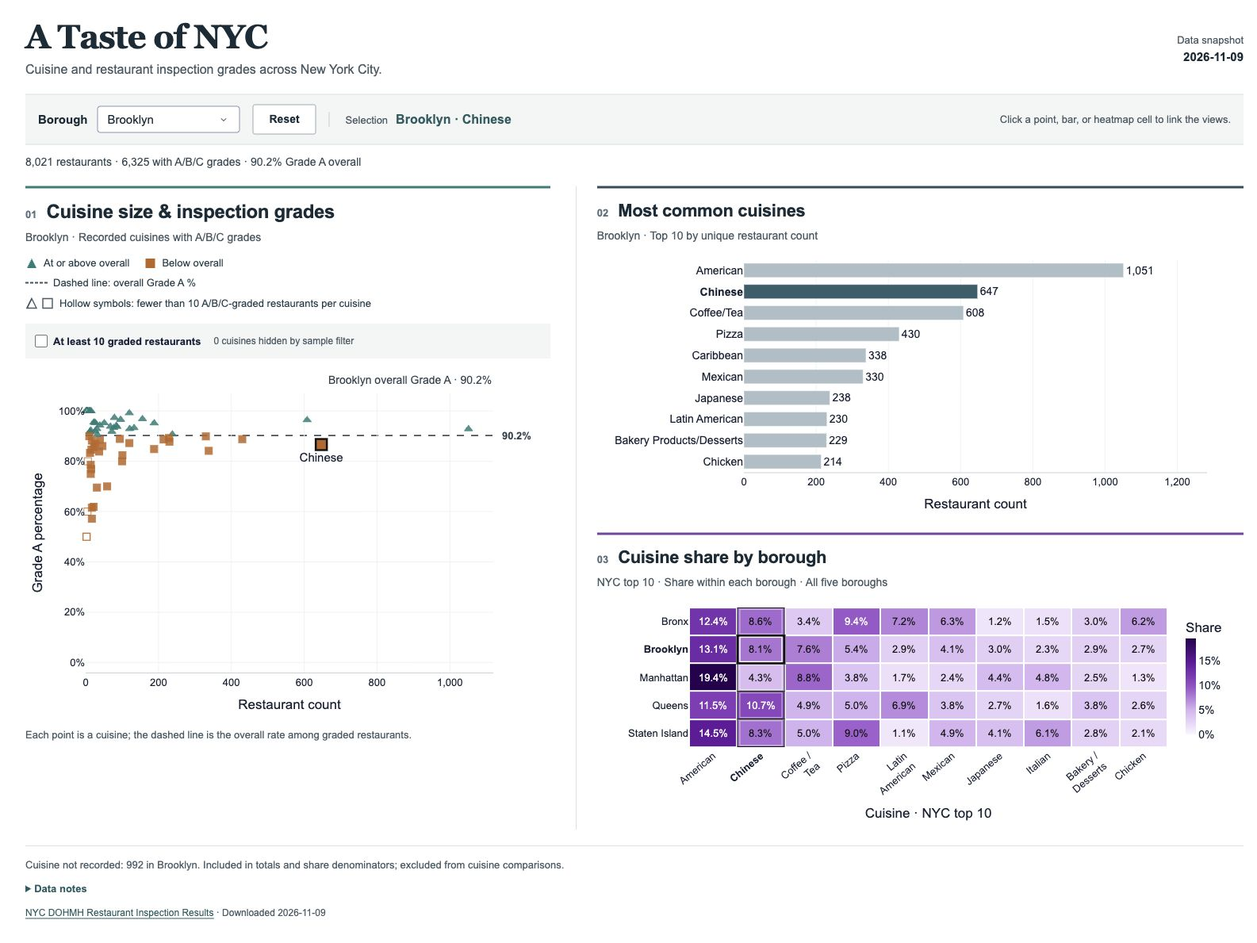
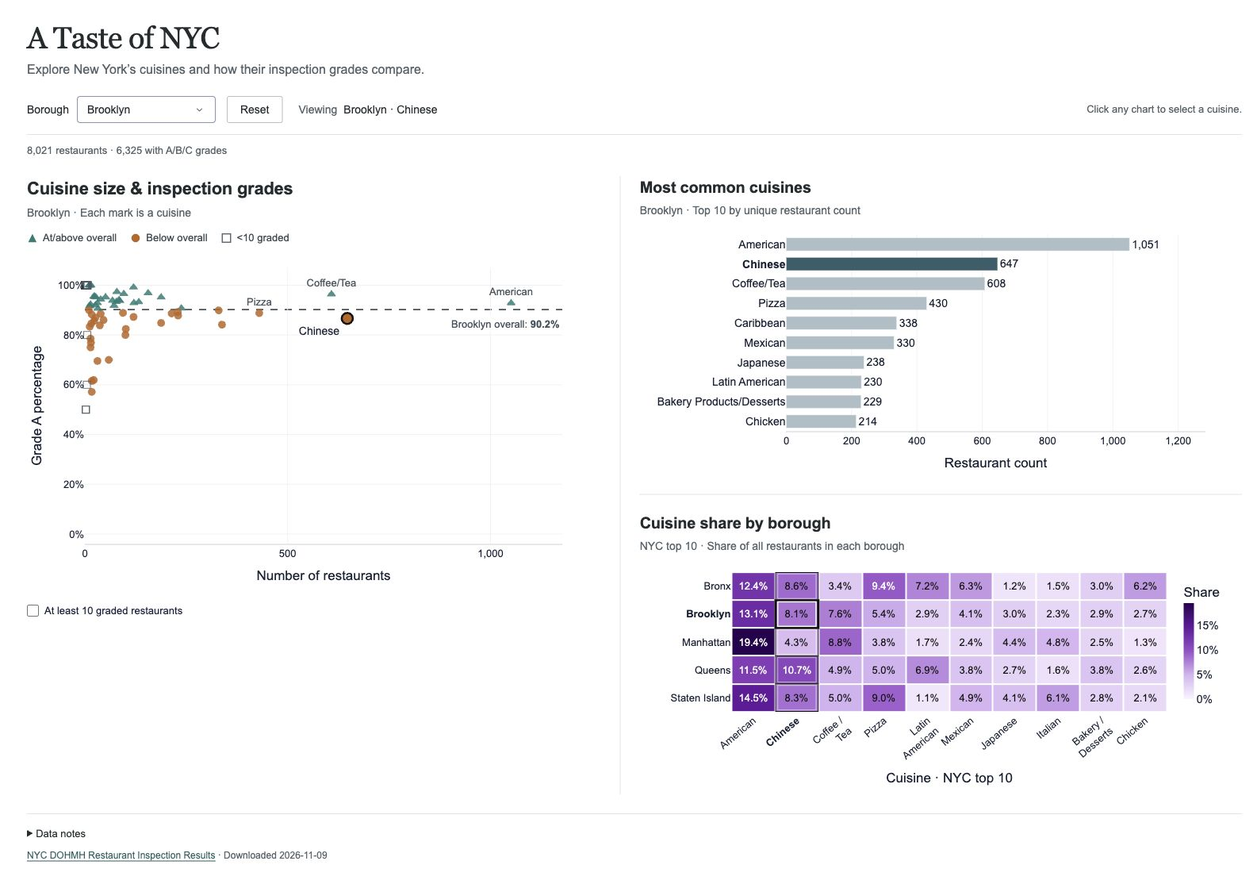
Refine dashboard typography and direct chart labels

diff --git a/a-taste-of-nyc/assets/style.css b/a-taste-of-nyc/assets/style.css
@@ -1,51 +1,41 @@
-:root { color-scheme: light; --ink: #182b36; --muted: #4b5c66; --line: #d9e0e3; --accent: #255c60; }
+:root { color-scheme: light; --ink: #252b2e; --muted: #58636a; --line: #e0e4e5; --accent: #285f60; }
 * { box-sizing: border-box; }
 body { margin: 0; background: #fff; color: var(--ink); font-family: Arial, Helvetica, sans-serif; }
-.page { max-width: 1840px; margin: auto; padding: 24px 32px 20px; }
-header { display: flex; align-items: center; justify-content: space-between; gap: 20px; margin-bottom: 20px; }
-h1 { font-family: Georgia, serif; font-size: 42px; font-weight: 600; letter-spacing: -1px; margin: 0 0 6px; line-height: 1.08; }
+.page { max-width: 1740px; margin: auto; padding: 26px 34px 20px; }
+header { margin-bottom: 22px; }
+h1 { font-family: Georgia, serif; font-size: 38px; font-weight: 500; letter-spacing: -.8px; margin: 0 0 7px; line-height: 1.12; }
 .intro { color: var(--muted); font-size: 16px; margin: 0; line-height: 1.45; }
-.snapshot { display: flex; flex-direction: column; gap: 5px; font-size: 13px; color: var(--muted); text-align: right; }
-.snapshot strong { color: var(--ink); font-size: 15px; font-weight: 600; }
-.controls { display: flex; align-items: center; flex-wrap: wrap; gap: 16px; border-block: 1px solid var(--line); padding: 12px 16px; background: #f3f6f6; }
-.filter { display: flex; align-items: center; gap: 12px; font-size: 15px; font-weight: 600; }
-#borough { width: 180px; font-size: 15px; font-weight: 400; }
-button { background: #fff; color: var(--ink); border: 1px solid #9aaab2; border-radius: 3px; padding: 10px 20px; font-size: 14px; font-weight: 600; cursor: pointer; }
-button:hover { background: #e8efef; }
+.controls { display: flex; align-items: center; flex-wrap: wrap; gap: 14px; border-bottom: 1px solid var(--line); padding: 0 0 14px; }
+.filter { display: flex; align-items: center; gap: 10px; font-size: 14px; }
+#borough { width: 175px; font-size: 14px; }
+button { background: #fff; color: var(--ink); border: 1px solid #b7c0c4; border-radius: 3px; padding: 8px 16px; font-size: 14px; font-weight: 400; cursor: pointer; }
+button:hover { background: #f3f5f5; }
 button:focus-visible, a:focus-visible, summary:focus-visible { outline: 2px solid var(--accent); outline-offset: 3px; }
-.selection { display: flex; align-items: baseline; gap: 10px; border-left: 1px solid #c4ced2; padding-left: 20px; font-size: 16px; }
-.selection-label { color: var(--muted); font-size: 13px; }
-.selection strong { color: var(--accent); }
+.selection { display: flex; align-items: baseline; gap: 8px; margin-left: 6px; font-size: 14px; }
+.selection-label { color: var(--muted); }
+.selection strong { color: var(--ink); font-weight: 500; }
 .hint { margin: 0 0 0 auto; font-size: 13px; color: var(--muted); }
-.metrics { padding: 14px 0 22px; font-size: 14px; font-weight: 500; color: #344852; }
-.chart-grid { display: grid; grid-template-columns: minmax(0, .88fr) minmax(0, 1.12fr); gap: 32px; align-items: start; }
-.right-column { display: grid; gap: 22px; min-width: 0; border-left: 1px solid var(--line); padding-left: 26px; }
-.panel { background: white; padding: 14px 0 0; min-width: 0; border-top: 3px solid #314d5a; }
-.scatter-panel { border-top-color: #237d75; }
-.right-column .panel + .panel { border-top-color: #7843a2; }
-.chart-title { display: flex; align-items: baseline; gap: 12px; }
-.rq { color: #5c707d; font-size: 13px; font-weight: 700; flex-shrink: 0; }
-h2 { margin: 0; font-size: 22px; line-height: 1.25; font-weight: 700; letter-spacing: -.35px; }
-.scatter-panel h2 { font-size: 24px; }
-.chart-subtitle { font-size: 14px; color: var(--muted); font-weight: 500; margin: 8px 0 12px; line-height: 1.45; }
-.plot-key { display: flex; flex-wrap: wrap; gap: 9px 18px; margin: 14px 0 0; font-size: 13px; color: #263e49; }
-.plot-key span { display: inline-flex; align-items: center; gap: 7px; }
-.key-mark { display: inline-block; width: 16px; height: 16px; flex-shrink: 0; }
-.plot-key .key-reference, .plot-key .key-note { flex-basis: 100%; }
-.plot-key .key-note { align-items: flex-start; line-height: 1.45; }
-.plot-key .key-symbols { flex-shrink: 0; gap: 4px; padding-top: 1px; }
-.key-line { display: inline-block; width: 28px; border-top: 2px dashed #45515c; flex-shrink: 0; }
-.sample-controls { display: flex; flex-wrap: wrap; align-items: center; gap: 7px 16px; margin: 16px 0 8px; padding: 10px 12px; background: #f3f6f6; font-size: 13px; color: #263e49; }
-.sample-controls label { display: inline-flex; align-items: center; gap: 7px; font-weight: 600; cursor: pointer; }
-.sample-controls input { accent-color: var(--accent); width: 16px; height: 16px; margin: 0; }
+.metrics { padding: 12px 0 25px; font-size: 13px; color: var(--muted); }
+.chart-grid { display: grid; grid-template-columns: minmax(0, .95fr) minmax(0, 1.05fr); gap: 38px; align-items: start; }
+.right-column { display: grid; gap: 25px; min-width: 0; padding-left: 24px; border-left: 1px solid var(--line); }
+.panel { background: white; min-width: 0; }
+.right-column .panel + .panel { border-top: 1px solid var(--line); padding-top: 22px; }
+h2 { margin: 0; font-size: 20px; line-height: 1.3; font-weight: 600; letter-spacing: -.25px; }
+.scatter-panel h2 { font-size: 22px; }
+.chart-subtitle { font-size: 14px; color: var(--muted); font-weight: 400; margin: 7px 0 12px; line-height: 1.45; }
+.plot-key { display: flex; flex-wrap: wrap; gap: 9px 17px; margin: 14px 0 8px; font-size: 13px; color: #414a50; }
+.plot-key span { display: inline-flex; align-items: center; gap: 6px; }
+.key-mark { display: inline-block; width: 14px; height: 14px; flex-shrink: 0; }
+.sample-controls { display: flex; flex-wrap: wrap; align-items: center; gap: 6px 16px; margin-top: 12px; font-size: 13px; color: #414a50; }
+.sample-controls label { display: inline-flex; align-items: center; gap: 7px; font-weight: 400; cursor: pointer; }
+.sample-controls input { accent-color: var(--accent); width: 15px; height: 15px; margin: 0; }
 #sample-status { color: var(--muted); font-size: 12px; }
-.figure-note { font-size: 13px; color: var(--muted); line-height: 1.55; margin: 6px 0 0; max-width: 560px; }
-.missing-note { border-top: 1px solid var(--line); margin: 20px 0 0; padding-top: 14px; color: var(--muted); font-size: 13px; line-height: 1.5; }
-.data-notes { margin-top: 10px; font-size: 13px; color: var(--muted); line-height: 1.6; max-width: 1100px; }
-.data-notes summary { cursor: pointer; color: var(--accent); font-weight: 600; width: fit-content; }
-.data-notes p { margin: 8px 0; }
-footer { margin-top: 12px; color: var(--muted); font-size: 12px; }
+#sample-status:empty { display: none; }
+.data-notes { border-top: 1px solid var(--line); padding-top: 14px; margin-top: 24px; font-size: 13px; color: var(--muted); line-height: 1.6; }
+.data-notes summary { cursor: pointer; color: var(--ink); width: fit-content; }
+.data-notes p { margin: 8px 0; max-width: 1050px; }
+footer { margin-top: 10px; color: var(--muted); font-size: 12px; }
 a { color: var(--accent); text-underline-offset: 3px; }
-@media (max-width: 1400px) { .page { padding: 22px; } .hint { display: none; } .chart-grid { gap: 24px; } .right-column { padding-left: 20px; } .heatmap-plot { min-width: 700px; } .panel:has(.heatmap-plot) { overflow-x: auto; } }
-@media (max-width: 1150px) { .chart-grid { grid-template-columns: 1fr; } .right-column { border-left: 0; padding-left: 0; gap: 26px; } .scatter-plot { height: 440px !important; } .scatter-panel { padding-bottom: 12px; } .heatmap-plot { min-width: 740px; } }
-@media (max-width: 550px) { .page { padding: 18px 14px; } h1 { font-size: 36px; } .intro { font-size: 15px; } .snapshot { display: none; } header { margin-bottom: 16px; } .controls { padding: 12px; gap: 12px; } .selection { padding: 8px 0 0; border-left: 0; border-top: 1px solid var(--line); width: 100%; flex-wrap: wrap; } .filter { gap: 8px; } #borough { width: 145px; } button { padding: 9px 13px; } .metrics { line-height: 1.6; } h2, .scatter-panel h2 { font-size: 21px; } .panel:has(.heatmap-plot) .chart-subtitle::after { content: "Scroll horizontally to compare all cuisines →"; display: block; margin-top: 6px; color: var(--accent); font-weight: 600; } }
+@media (max-width: 1400px) { .page { padding: 24px; } .hint { display: none; } .chart-grid { gap: 26px; } .right-column { padding-left: 20px; } .heatmap-plot { min-width: 700px; } .panel:has(.heatmap-plot) { overflow-x: auto; } }
+@media (max-width: 1150px) { .chart-grid { grid-template-columns: 1fr; gap: 30px; } .right-column { border-left: 0; padding-left: 0; gap: 26px; } .scatter-plot { height: 420px !important; } .heatmap-plot { min-width: 740px; } }
+@media (max-width: 550px) { .page { padding: 20px 14px; } h1 { font-size: 34px; } .intro { font-size: 15px; } header { margin-bottom: 18px; } .controls { gap: 10px; } .selection { margin-left: 0; width: 100%; flex-wrap: wrap; } #borough { width: 145px; } button { padding: 9px 13px; } h2, .scatter-panel h2 { font-size: 20px; } .panel:has(.heatmap-plot) .chart-subtitle::after { content: "Scroll horizontally to compare all cuisines →"; display: block; margin-top: 6px; color: var(--accent); } }

diff --git a/a-taste-of-nyc/app.py b/a-taste-of-nyc/app.py
@@ -64,6 +64,51 @@ def empty_figure(message):
     return fig
 
 
+def scatter_labels(plotted, selected, benchmark):
+    """Label the selection and up to three large cuisines, leaving crowded marks alone.
+
+    Approximate text boxes on a conservative 320px-wide plot so labels remain
+    sparse on laptops. These are presentation decisions, not data exclusions.
+    """
+    width, height = 320, 340
+    x_max = float(plotted.restaurants.max()) * 1.12
+    candidates = pd.concat([plotted[plotted.cuisine.eq(selected)],
+                            plotted[plotted.cuisine.ne(selected) & (plotted.rated >= 10)].head(3)])
+    # Reserve the area occupied by the benchmark label, directly below its line.
+    line_y = (1.07 - benchmark) / 1.11 * height
+    occupied = [(width - 180, line_y + 7, width, line_y + 26)]
+    marks = [(float(r.restaurants) / x_max * width, (1.07 - float(r.grade_a_pct)) / 1.11 * height)
+             for r in plotted.itertuples()]
+    labels = {}
+    for row in candidates.itertuples():
+        x, y = float(row.restaurants) / x_max * width, (1.07 - float(row.grade_a_pct)) / 1.11 * height
+        label_width, label_height = len(row.cuisine) * 6.8, 16
+        positions = {
+            "top center": (x-label_width/2, y-12-label_height),
+            "bottom center": (x-label_width/2, y+12),
+            "middle right": (x+12, y-label_height/2),
+            "middle left": (x-12-label_width, y-label_height/2),
+        }
+        for position, (left, top) in positions.items():
+            box = (left, top, left+label_width, top+label_height)
+            if left < 0 or box[2] > width or top < 0 or box[3] > height:
+                continue
+            if any(left < r+4 and box[2] > l-4 and top < b+4 and box[3] > t-4 for l,t,r,b in occupied):
+                continue
+            if any(left-4 < px < box[2]+4 and top-4 < py < box[3]+4 for px,py in marks):
+                continue
+            labels[row.cuisine] = position
+            occupied.append(box)
+            break
+        else:
+            if row.cuisine == selected:
+                # A selected cuisine must remain identified, even in a dense cluster.
+                labels[row.cuisine] = "bottom right" if x < width/2 else "bottom left"
+                left = x+12 if x < width/2 else x-12-label_width
+                occupied.append((left, y+12, left+label_width, y+12+label_height))
+    return labels
+
+
 def scatter_figure(summary, selected, scope="All NYC", min_graded=1):
     # The benchmark is a pooled restaurant-level rate, not a mean of cuisine rates.
     total_rated = int(summary.rated.sum())
@@ -72,6 +117,7 @@ def scatter_figure(summary, selected, scope="All NYC", min_graded=1):
     if plotted.empty:
         return empty_figure("No recorded cuisines meet the graded-sample filter" if min_graded > 1 else "No recorded cuisines with A/B/C grades in this selection")
     fig = base_figure()
+    labels = scatter_labels(plotted, selected, benchmark)
     groups = [(plotted[plotted.cuisine.ne(selected)], False), (plotted[plotted.cuisine.eq(selected)], True)]
     for rows, active in groups:
         if rows.empty:
@@ -86,9 +132,10 @@ def scatter_figure(summary, selected, scope="All NYC", min_graded=1):
                   zip(rows.cuisine, rows.restaurants, rows.rated, rows.grade_a, relation)]
         fig.add_trace(go.Scatter(
             x=rows.restaurants.tolist(), y=rows.grade_a_pct.tolist(),
-            mode="markers+text" if active else "markers",
-            text=[escape(c) for c in rows.cuisine] if active else None,
-            textposition="bottom center", textfont={"color": INK, "size": 15}, cliponaxis=False,
+            mode="markers+text",
+            text=[escape(c) if c in labels else "" for c in rows.cuisine],
+            textposition=[labels.get(c, "top center") for c in rows.cuisine],
+            textfont={"color": INK if active else "#4a555c", "size": 14 if active else 13}, cliponaxis=False,
             customdata=custom,
             marker={"size": 14 if active else 9, "color": colors,
                     "opacity": 1 if active else 0.85,
@@ -102,16 +149,15 @@ def scatter_figure(summary, selected, scope="All NYC", min_graded=1):
                                     hovertemplate="<b>%{customdata[0]}</b><br>Borough: %{customdata[5]}<br>Restaurants: %{customdata[1]:,}<br>Rated (A/B/C): %{customdata[2]:,}<br>Grade A restaurants: %{customdata[3]:,}<br>Grade A: %{y:.1%}<extra></extra>", marker={"size": 17,
                                     "symbol": symbols, "color": "#111111", "line": {"width": 1.5}}))
     fig.add_hline(y=benchmark, line={"color": "#45515c", "width": 1.8, "dash": "dash"}, layer="below")
-    # Keep the benchmark label outside the data region so it cannot cover a point.
-    fig.add_annotation(x=1, xref="paper", y=1.02, yref="paper", text=f"{escape(scope)} overall Grade A · {benchmark:.1%}",
-                       showarrow=False, xanchor="right", yanchor="bottom",
-                       font={"size": 14, "color": "#33414c"})
-    fig.add_annotation(x=1.015, xref="paper", y=benchmark, yref="y",
-                       text=f"<b>{benchmark:.1%}</b>", showarrow=False, xanchor="left", yanchor="middle",
-                       font={"size": 13, "color": "#33414c"}, bgcolor="white", borderpad=2)
-    fig.update_xaxes(title="Restaurant count", rangemode="tozero", tickformat=",d", type="linear")
+    # One label attached to the reference line; no repeated percentage above the plot.
+    fig.add_annotation(x=1, xref="paper", y=benchmark, yref="y",
+                       text=f"{escape(scope)} overall: <b>{benchmark:.1%}</b>",
+                       showarrow=False, xanchor="right", yanchor="top", yshift=-7,
+                       font={"size": 13, "color": "#45515c"}, bgcolor="white", borderpad=2)
+    fig.update_xaxes(title="Number of restaurants", range=[0, float(plotted.restaurants.max()) * 1.12],
+                     tickformat=",d", type="linear", nticks=5)
     fig.update_yaxes(title="Grade A percentage", range=[-0.04, 1.07], tickformat=".0%", dtick=0.2)
-    fig.update_layout(margin={"l": 76, "r": 65, "t": 36, "b": 62})
+    fig.update_layout(margin={"l": 72, "r": 28, "t": 22, "b": 60})
     return fig
 
 
@@ -235,54 +281,50 @@ def create_app(frame=None, metadata=None):
     app.layout = html.Main([
         html.Header([
             html.Div([html.H1("A Taste of NYC"),
-                      html.P("Cuisine and restaurant inspection grades across New York City.", className="intro")]),
-            html.Div([html.Span("Data snapshot"), html.Strong(metadata.get("download_date", "Unknown"))], className="snapshot"),
+                      html.P("Explore New York’s cuisines and how their inspection grades compare.", className="intro")]),
         ]),
         html.Div([
             html.Div([html.Label("Borough", htmlFor="borough"),
                       dcc.Dropdown(id="borough", options=["All NYC", *BOROUGHS], value="All NYC", clearable=False, searchable=False)], className="filter"),
             html.Button("Reset", id="reset", n_clicks=0),
-            html.Div([html.Span("Selection", className="selection-label"), html.Strong(id="selection")], className="selection", **{"aria-live": "polite"}),
-            html.P("Click a point, bar, or heatmap cell to link the views.", className="hint"),
+            html.Div([html.Span("Viewing", className="selection-label"), html.Strong(id="selection")], className="selection", **{"aria-live": "polite"}),
+            html.P("Click any chart to select a cuisine.", className="hint"),
         ], className="controls"),
         dcc.Store(id="selected-cuisine", data=None),
         html.Div(id="metrics", className="metrics"),
         html.Div([
             html.Section([
-                html.Div([html.Span("01", className="rq"), html.H2("Cuisine size & inspection grades")], className="chart-title"),
+                html.Div([html.H2("Cuisine size & inspection grades")], className="chart-title"),
                 html.P(id="scatter-scope", className="chart-subtitle"),
                 html.Div([
-                    html.Span([html.Img(src="/assets/legend-triangle.svg", className="key-mark", alt=""), "At or above overall"]),
+                    html.Span([html.Img(src="/assets/legend-triangle.svg", className="key-mark", alt=""), "At/above overall"]),
                     html.Span([html.Img(src="/assets/legend-circle.svg", className="key-mark", alt=""), "Below overall"]),
-                    html.Span([html.I(className="key-line"), "Dashed line: overall Grade A %"], className="key-reference"),
-                    html.Span([
-                        html.Span([html.Img(src="/assets/legend-square-open.svg", className="key-mark", alt="")], className="key-symbols"),
-                        html.Span("Fewer than 10 A/B/C-graded restaurants per cuisine"),
-                    ], className="key-note"),
+                    html.Span([html.Img(src="/assets/legend-square-open.svg", className="key-mark", alt=""),
+                               "<10 graded"]),
                 ], className="plot-key"),
+                dcc.Graph(id="scatter", config=CONFIG, responsive=True, style={"height": "430px"}, className="scatter-plot"),
                 html.Div([
                     dcc.Checklist(id="sample-filter", options=[{"label": "At least 10 graded restaurants", "value": "ten"}], value=[]),
                     html.Span(id="sample-status", **{"aria-live": "polite"}),
                 ], className="sample-controls"),
-                dcc.Graph(id="scatter", config=CONFIG, responsive=True, style={"height": "450px"}, className="scatter-plot"),
-                html.P("Each point is a cuisine; the dashed line is the overall rate among graded restaurants.", className="figure-note"),
             ], className="panel scatter-panel"),
             html.Div([
                 html.Section([
-                    html.Div([html.Span("02", className="rq"), html.H2(id="bar-title")], className="chart-title"),
+                    html.Div([html.H2(id="bar-title")], className="chart-title"),
                     html.P(id="bar-scope", className="chart-subtitle"),
-                    dcc.Graph(id="bar", config=CONFIG, responsive=True, style={"height": "330px"}, className="bar-plot"),
+                    dcc.Graph(id="bar", config=CONFIG, responsive=True, style={"height": "310px"}, className="bar-plot"),
                 ], className="panel"),
                 html.Section([
-                    html.Div([html.Span("03", className="rq"), html.H2("Cuisine share by borough", id="heatmap-title")], className="chart-title"),
-                    html.P("NYC top 10 · Share within each borough · All five boroughs", className="chart-subtitle"),
+                    html.Div([html.H2("Cuisine share by borough", id="heatmap-title")], className="chart-title"),
+                    html.P("NYC top 10 · Share of all restaurants in each borough", className="chart-subtitle"),
                     dcc.Graph(id="heatmap", figure=heatmap, config=CONFIG, responsive=True, style={"height": "290px"}, className="heatmap-plot"),
                 ], className="panel"),
             ], className="right-column"),
         ], className="chart-grid"),
-        html.P(id="missing-note", className="missing-note"),
         html.Details([
             html.Summary("Data notes"),
+            html.P(id="missing-note"),
+            html.P("Triangle and circle marks have at least 10 A/B/C-rated restaurants. Hollow squares have 1–9; their exact Grade A rates remain in their vertical positions and tooltips."),
             html.P("Counts represent unique restaurants. Grade A percentages use each restaurant’s latest available A/B/C graded inspection."),
             html.P("Overall Grade A = all Grade A restaurants / all A/B/C-rated restaurants in the selected scope; it is not an average of cuisine percentages. The reference and both color groups update with the borough."),
             html.P("Cuisine not recorded is excluded from the cuisine comparisons but included in total counts and heatmap denominators. Heatmap columns are the NYC top 10 recorded cuisines, plus the selected cuisine if needed; all five boroughs and the citywide color scale remain fixed."),
@@ -317,29 +359,28 @@ def create_app(frame=None, metadata=None):
         summary = cuisine_summary(subset)
         bar, extra = bar_figure(summary, selected, borough)
         rated = int(subset.grade.isin(["A", "B", "C"]).sum())
-        grade_a = int(subset.grade.eq("A").sum())
-        metrics = f"{len(subset):,} restaurants · {rated:,} with A/B/C grades · " + (f"{grade_a / rated:.1%} Grade A overall" if rated else "Grade A: no data")
+        metrics = f"{len(subset):,} restaurants · {rated:,} with A/B/C grades"
         unknown = int(subset.cuisine.eq(MISSING_CUISINE).sum())
         missing_note = f"Cuisine not recorded: {unknown:,} in {borough}. Included in totals and share denominators; excluded from cuisine comparisons."
         omitted = int((summary.rated.eq(0) & summary.cuisine.ne(MISSING_CUISINE)).sum())
         note = f"{omitted} recorded cuisine(s) have no valid grade and are not plotted in scatter. Counts still include them. The optional minimum-sample filter affects only scatter visibility, not totals or the overall benchmark."
         hidden = int(((summary.rated > 0) & (summary.rated < minimum) & summary.cuisine.ne(MISSING_CUISINE)).sum())
-        sample_status = f"{hidden} cuisines hidden by sample filter"
+        sample_status = f"{hidden} cuisines hidden by sample filter" if minimum > 1 else ""
         if omitted:
-            sample_status += f" · {omitted} with no grade not plotted"
+            sample_status += (" · " if sample_status else "") + f"{omitted} with no grade not plotted"
         if selected:
             row = summary[summary.cuisine.eq(selected)]
             if row.empty:
                 note = f"{selected}: 0 restaurants; Grade A: no data. " + note
-                sample_status += f" · {selected}: no restaurants in this borough"
+                sample_status += (" · " if sample_status else "") + f"{selected}: no restaurants in this borough"
             elif int(row.iloc[0].rated) == 0:
                 note = f"{selected}: Grade A unavailable (0 rated restaurants). " + note
-                sample_status += f" · {selected}: no valid grade"
+                sample_status += (" · " if sample_status else "") + f"{selected}: no valid grade"
             elif int(row.iloc[0].rated) < minimum:
                 sample_status += f" · {selected} is hidden ({int(row.iloc[0].rated)} graded); turn off the filter to see it"
         return (borough, selected, None, scatter_figure(summary, selected, borough, minimum), bar,
                 f"{borough} · {selected or 'All cuisines'}", metrics,
-                f"{borough} · Recorded cuisines with A/B/C grades",
+                f"{borough} · Each mark is a cuisine",
                 f"{borough} · Top 10 by unique restaurant count",
                 "Most common cuisines" + (" · + selected" if extra else ""), note,
                 heatmap_figure(frame, borough, selected)[0], missing_note,

diff --git a/a-taste-of-nyc/check_browser.py b/a-taste-of-nyc/check_browser.py
@@ -60,7 +60,7 @@ def run():
         assert page.locator("#bar .js-plotly-plot").evaluate("g => g.data[0].marker.color.includes('#355e6a')")
         assert page.locator("#heatmap .js-plotly-plot").evaluate("g => g.layout.shapes.length === 10")
         expect(page.locator("#missing-note")).to_contain_text("992")
-        expect(page.locator("#scatter")).to_contain_text("Brooklyn overall Grade A · 90.2%")
+        expect(page.locator("#scatter")).to_contain_text("Brooklyn overall: 90.2%")
         selected = page.locator("#scatter .scatterlayer .trace").last.locator(".point").first
         bounds = selected.bounding_box()
         page.mouse.move(bounds["x"] + bounds["width"] / 2, bounds["y"] + bounds["height"] / 2)

diff --git a/a-taste-of-nyc/README.md b/a-taste-of-nyc/README.md
@@ -59,9 +59,9 @@ Grade is attached to the restaurant's latest valid borough/cuisine information. 
 
 **Grade A denominator:** only A/B/C-rated restaurants. Missing grades, N, Z, P and other values never become non-A observations. A zero graded denominator means **no data**, not 0%.
 
-- **Scatter / RQ3:** X = restaurant count (linear); Y = Grade A percentage; one point per recorded cuisine with at least one valid grade. The dashed line is the pooled Grade A rate for the selected scope, including every validly graded restaurant. For cuisines with at least 10 graded restaurants, teal triangles = at or above that rate and warm orange circles = below it. Cuisines with 1–9 graded restaurants always use a gray hollow square, regardless of which side of the benchmark they fall on. These are three mutually exclusive shape groups. The dashed line has an explicit legend and its percentage is labeled at the right endpoint. The selected cuisine keeps its comparison color, with a black outline and label. Markers are smaller and semi-transparent; fewer than 10 graded restaurants use hollow squares. The legend shows one triangle, one circle and one square; all legend symbols use consistent SVG dimensions. The optional **At least 10 graded restaurants** checkbox is off by default. When enabled, it hides cuisines with fewer than 10 valid grades only from scatter, displays the number hidden, and leaves all totals and the pooled benchmark unchanged. A selected cuisine hidden by this filter is explicitly named beside the checkbox. Zero-rated cuisines are not plotted on a numeric percentage axis. Above/below overall is descriptive, not statistical significance or causation.
+- **Scatter / RQ3:** X = restaurant count (linear); Y = Grade A percentage; one point per recorded cuisine with at least one valid grade. The dashed line is the pooled Grade A rate for the selected scope, including every validly graded restaurant. For cuisines with at least 10 graded restaurants, teal triangles = at or above that rate and warm orange circles = below it. Cuisines with 1–9 graded restaurants always use a gray hollow square, regardless of which side of the benchmark they fall on. These are three mutually exclusive shape groups. The dashed line has one directly attached scope-and-percentage label; its meaning is not repeated in a separate legend. The selected cuisine keeps its comparison color, with a black outline and label. Markers are smaller and semi-transparent; fewer than 10 graded restaurants use hollow squares. The legend shows one triangle, one circle and one square; all legend symbols use consistent SVG dimensions. The optional **At least 10 graded restaurants** checkbox is off by default. When enabled, it hides cuisines with fewer than 10 valid grades only from scatter, displays the number hidden, and leaves all totals and the pooled benchmark unchanged. A selected cuisine hidden by this filter is explicitly named beside the checkbox. Zero-rated cuisines are not plotted on a numeric percentage axis. Above/below overall is descriptive, not statistical significance or causation.
 - **Bar / RQ1:** descending restaurant count, Top 10 recorded cuisines in the selected borough. If any chart selection falls outside that Top 10, append the selected cuisine, disclose this in the title, and show its actual rank among recorded cuisines. Ordinary bars are gray-blue; a dark desaturated teal bar and bold cuisine label identify selection. Counts remain at bar ends; the former arrow and redundant Cuisine axis title are removed. Ties are alphabetical.
-- **Heatmap / RQ2:** five boroughs × citywide Top 10 recorded cuisines. Purple intensity represents borough share, and every cell displays its percentage. Text switches to white on darker cells. All five cells in the selected cuisine column have thin outlines; the active borough–cuisine cell has a heavier outline and the active borough label is bold. A cuisine selected from scatter/bar outside the NYC Top 10 is appended as an eleventh column. All five boroughs and the citywide color scale remain fixed across selections. The nearby subtitle explicitly says “Share within each borough · All five boroughs.” All borough restaurants, including Cuisine not recorded, remain in the denominator. Zero-count combinations remain 0%; zero denominators are no data.
+- **Heatmap / RQ2:** five boroughs × citywide Top 10 recorded cuisines. Purple intensity represents borough share, and every cell displays its percentage. Text switches to white on darker cells. All five cells in the selected cuisine column have thin outlines; the active borough–cuisine cell has a heavier outline and the active borough label is bold. A cuisine selected from scatter/bar outside the NYC Top 10 is appended as an eleventh column. All five boroughs and the citywide color scale remain fixed across selections. The nearby subtitle explicitly says “NYC top 10 · Share of all restaurants in each borough”; all five borough names remain visible. All borough restaurants, including Cuisine not recorded, remain in the denominator. Zero-count combinations remain 0%; zero denominators are no data.
 
 ## Missing-cuisine audit
 
@@ -70,7 +70,7 @@ The November 9 snapshot was checked directly against every available source row 
 - **3,922 unique restaurants** have no recorded cuisine, including **992 in Brooklyn**.
 - These IDs have **4,000 source rows**. **Zero** of those restaurant IDs have any nonblank cuisine in any available inspection record. The missing values were not introduced by mapping or the grade join, and there is no usable older cuisine to recover.
 - None has a valid A/B/C grade. **3,920 source rows** carry the source's `1900-01-01` not-yet-inspected marker; this count is rows, not restaurants.
-- They remain in total restaurant counts and heatmap denominators, but are excluded from cuisine comparisons and Top 10 selection. A visible note states their count for the current borough and the denominator policy. The cleaned data is retained intact.
+- They remain in total restaurant counts and heatmap denominators, but are excluded from cuisine comparisons and Top 10 selection. An expandable Data notes section states their count for the current borough and the denominator policy. The cleaned data is retained intact.
 
 The saved audit is [data/cuisine_missingness_audit.json](data/cuisine_missingness_audit.json). `test_missing_cuisine_really_missing_in_all_source_records` repeats the key raw-source check. Brooklyn's reference rate is **5,707 Grade A / 6,325 A/B/C-rated = 90.229249…%**, displayed as **90.2%**. It is not the unweighted average of cuisine rates.
 
@@ -91,9 +91,11 @@ The saved audit is [data/cuisine_missingness_audit.json](data/cuisine_missingnes
 | Heatmap / RQ2 | Sequential purple intensity + cell text | Cuisine share among **all** restaurants in that borough |
 | Heatmap / RQ2 | Thin column outlines / heavy cell outline / bold row label | Selected cuisine across boroughs / selected borough–cuisine / active borough |
 
-These refinements retain Option B and the original chart types and axes. The added reference line and binary comparison colors strengthen RQ3. No logarithmic axis or arbitrary cuisine palette was introduced. Only the selected scatter point is labeled to limit clutter. Display numbers 01–03 express reading order; the original research-question mapping remains RQ3 / RQ1 / RQ2.
+These refinements retain Option B and the original chart types and axes. The added reference line and binary comparison colors strengthen RQ3. No logarithmic axis or arbitrary cuisine palette was introduced. The selected scatter point is labeled, with up to three common cuisines labeled where approximate text-box checks find room. The chart numbering was removed; the original research-question mapping remains RQ3 / RQ1 / RQ2.
 
-The readability revision uses a 42 px desktop page title, 22–24 px chart titles, 14 px scope subtitles and 13–15 px chart labels. The right column receives more width, short chart titles are separated from scope subtitles, and heatmap labels use a consistent 40° angle instead of shrinking type. Dark text, stronger teal/orange marks and subtle section rules separate the three views without card borders. Data and selection behavior are unchanged.
+The editorial revision uses a 38 px serif page title, 20–22 px chart titles, 14 px scope subtitles and 13–15 px chart labels. Controls have no background band, statistics occupy one short line, and thin gray separators replace colored section rules. The compact scatter legend contains exactly one triangle, circle and hollow square. The sample filter sits below scatter, and detailed explanations are expandable. Heatmap labels retain their 40° angle. Data and selection behavior are unchanged.
+
+Design references inspected for this revision: [The Pudding’s restaurant story](https://pudding.cool/2018/02/restaurants/), [Our World in Data’s scatter explorer](https://ourworldindata.org/grapher/life-expectancy-vs-gdp-per-capita?time=2020), and [Datawrapper scatter examples](https://www.datawrapper.de/docs/examples-of-datawrapper-scatter-plots). These informed the simpler typography, quieter controls and direct chart annotations. The implementation is original; no site assets were copied.
 
 ## Interactions and demonstration
 
@@ -105,7 +107,7 @@ The readability revision uses a 42 px desktop page title, 22–24 px chart title
 6. Hover over each chart. Scatter shows cuisine, borough, total restaurants, A/B/C-rated count, Grade A count and Grade A percentage. Bar shows cuisine, borough, count, share of all restaurants and rank. Heatmap shows borough, cuisine, count, share and its full-borough denominator.
 7. Click **Reset** to return to All NYC, clear the cuisine and turn off the sample filter. Clicking the same mark again works. Manual borough changes clear cuisine selection and retain the sample-filter setting.
 
-The three chart click paths, the Italian rank-11 case, the appended Caribbean column, sample filtering, Reset and repeated selection were exercised in the running browser on November 9, 2026. The two screenshots were refreshed after these changes; screenshots supplement the interactive demonstration rather than proving it alone.
+The three chart click paths, the Italian rank-11 case, the appended Caribbean column, sample filtering, Reset and repeated selection were exercised in the running browser on November 9, 2026. On November 11, the editorial revision was also checked in the running browser, including bar, scatter and heatmap selection and Reset. The two screenshots were refreshed after the editorial revision; screenshots supplement the interactive demonstration rather than proving it alone.
 
 Below 1150 px, chart panels stack vertically. When the heatmap cannot fit readable columns, it scrolls horizontally within its panel; the narrow-screen subtitle explains this. Mouse/touch chart marks initiate selection; keyboard-only chart-mark navigation is not implemented. Borough selection, the sample checkbox and Reset are keyboard accessible.
 
@@ -167,4 +169,4 @@ The 2–3 page usability report and one-page reflection belong to the final stag
 - `assets/style.css`: Option B layout, readable typography and responsive behavior.
 - `test_dashboard.py`: data logic and boundary-case tests. `check_browser.py`: real-browser interactions and screenshots.
 
-**AI assistance actually used:** OpenAI Codex generated the initial Python/CSS implementation, downloaded and inspected the official data, proposed and documented cleaning choices, wrote and executed automated checks, inspected browser screenshots, fixed chart-container overlap, audited missing cuisine against all source records, implemented the user-requested benchmark color encoding, visual hierarchy changes, three-way linked selection and sample filter, and drafted this README and the empty feedback template. The dataset is real NYC Open Data; it is not AI-generated. No classroom feedback or user-study outcome has been invented. The student should review the code and be able to explain the unique-CAMIS collapse, separate latest-grade lookup, rate denominators, and callback state before submitting. AI testing is not classroom usability feedback.
+**AI assistance actually used:** OpenAI Codex generated the initial Python/CSS implementation, downloaded and inspected the official data, proposed and documented cleaning choices, wrote and executed automated checks, inspected browser screenshots, fixed chart-container overlap, audited missing cuisine against all source records, inspected real data-visualization websites and implemented the approved editorial redesign, benchmark color encoding, visual hierarchy changes, three-way linked selection and sample filter, and drafted this README and the empty feedback template. The dataset is real NYC Open Data; it is not AI-generated. No classroom feedback or user-study outcome has been invented. The student should review the code and be able to explain the unique-CAMIS collapse, separate latest-grade lookup, rate denominators, and callback state before submitting. AI testing is not classroom usability feedback.
